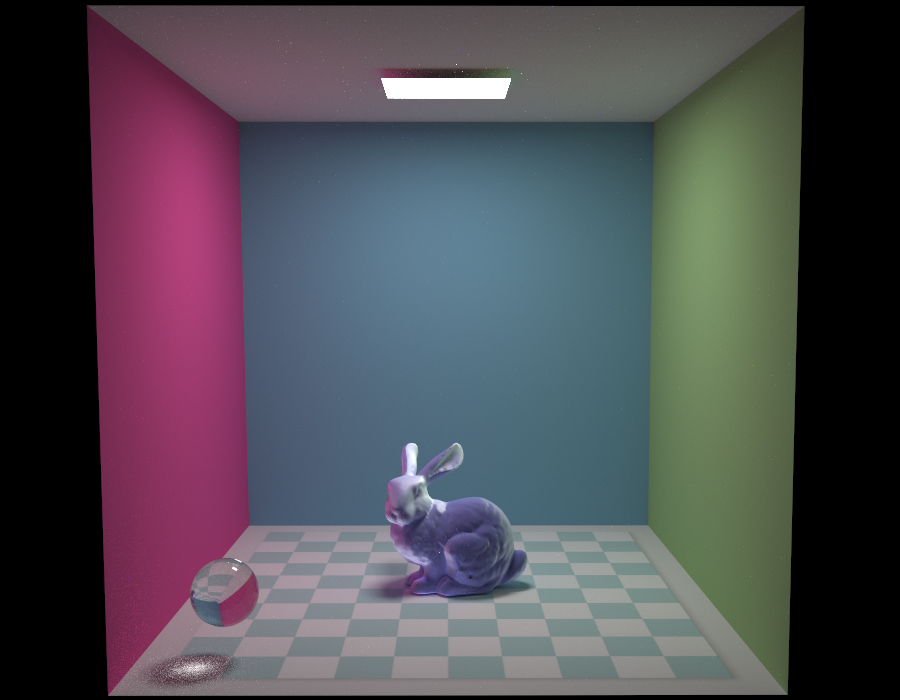
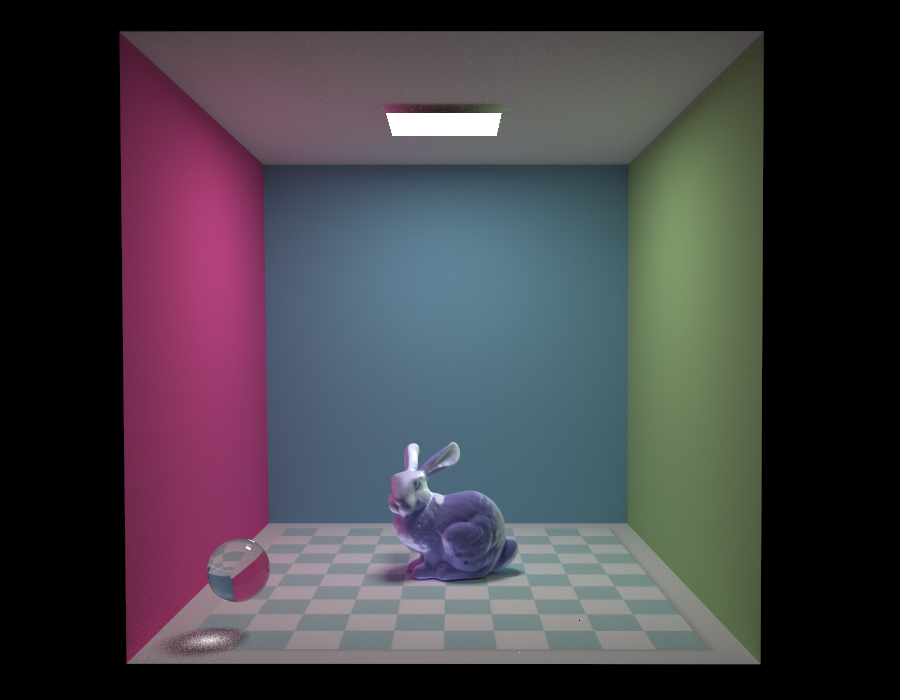
Bunny update

Changed region(s): [[0.0933, 0.0, 0.9022, 1.0]]

diff --git a/src/application/window.cpp b/src/application/window.cpp
@@ -49,5 +49,6 @@ app::Window::~Window(){
 }
 
 GLFWwindow* app::Window::get() const{
+
 	return window;
 }

diff --git a/README.md b/README.md
@@ -77,7 +77,7 @@ Rays max depth: 10
 Material: plastic and glass sphere
 IOR 1.5
 Resolution: [900x700]
-SPP: 1536
+SPP: 3100
 Rays max depth: 10
 ```
 
